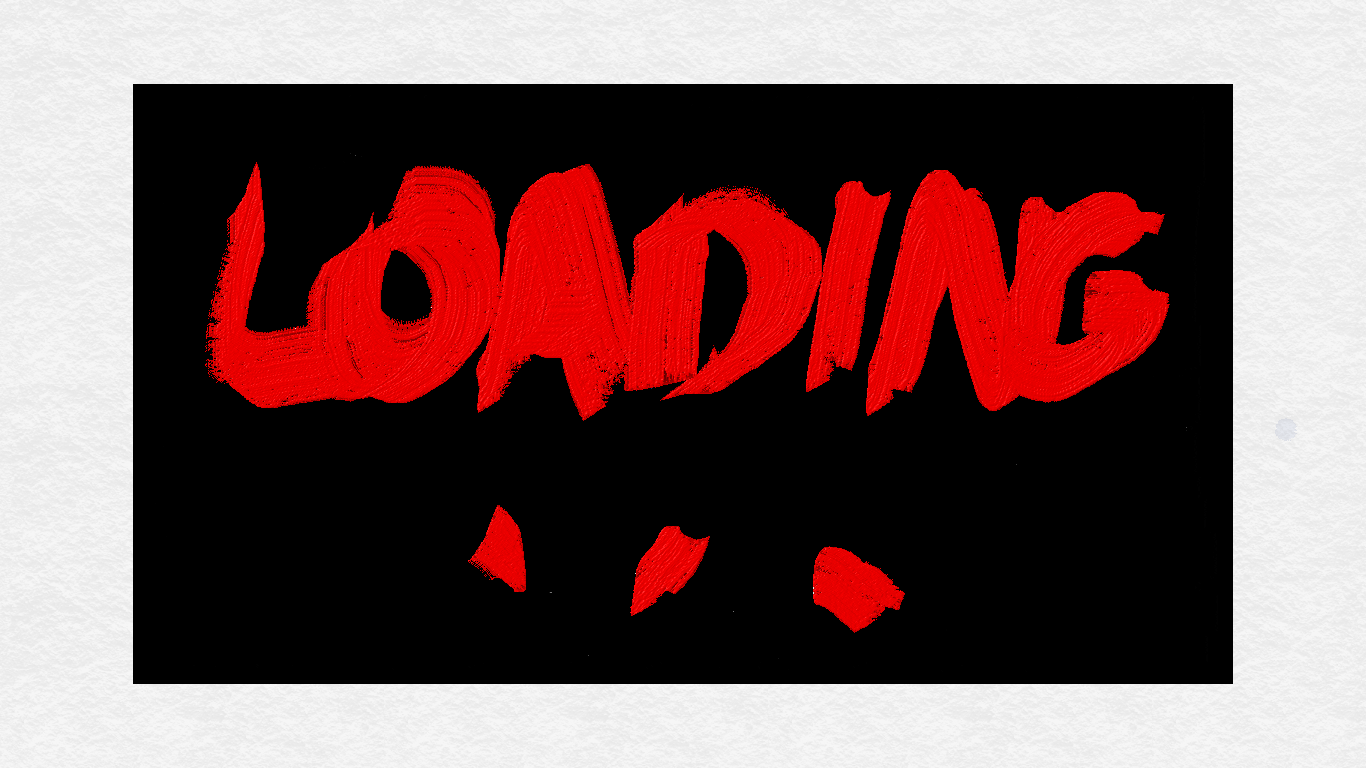
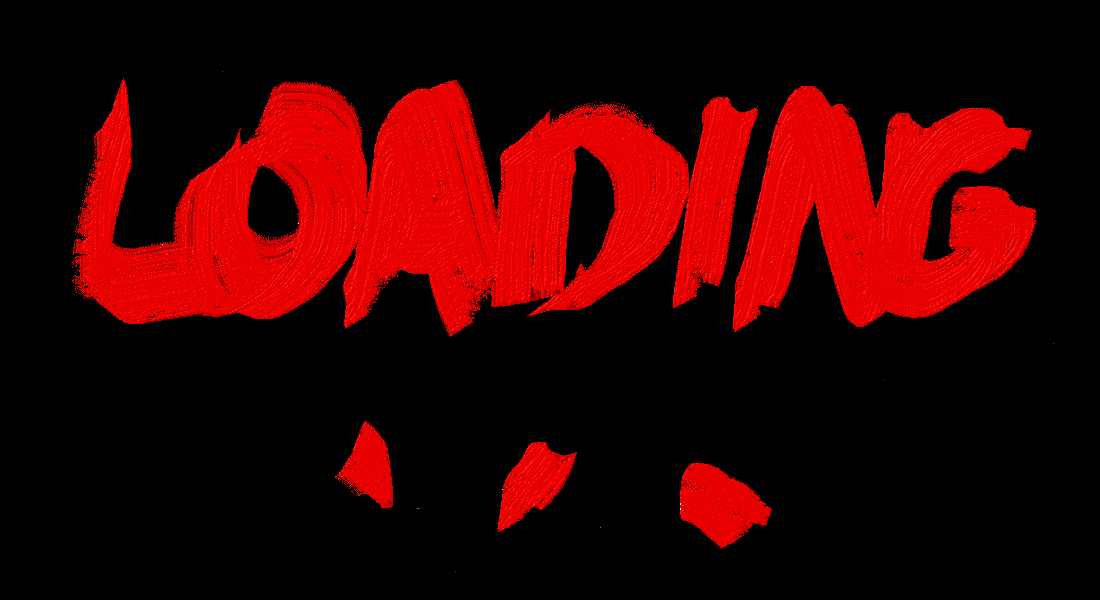
gamegit add *

diff --git a/canvas.js b/canvas.js
@@ -70,7 +70,6 @@ c.addEventListener("click",function(e){
     if (po[0]==200 && po[1] ==200 && po[2]==0){
         imgsrc=nextimg();
         update();
-        alert(imgsrc);
         if (lev>5){
             maze = makeMaze(ctx,img,imgsrc);
             maze.draw();
@@ -111,11 +110,11 @@ c.addEventListener("mousemove", function(e){
     }
     if (p[0]==255 && p[1] ==0 && p[2]==0 && canmove){
        console.log("win");
-       imgsrc=nextimg();
+       imgsrc="Loading.png";
        maze = makeMaze(ctx,img,imgsrc);
        maze.draw();
        canmove=false;
-       document.getElementById("header").innerHTML = "Click blue to proceed";
+       document.getElementById("header").innerHTML = "Wait...";
     }
 });
 //window.requestAnimationFrame(update);
